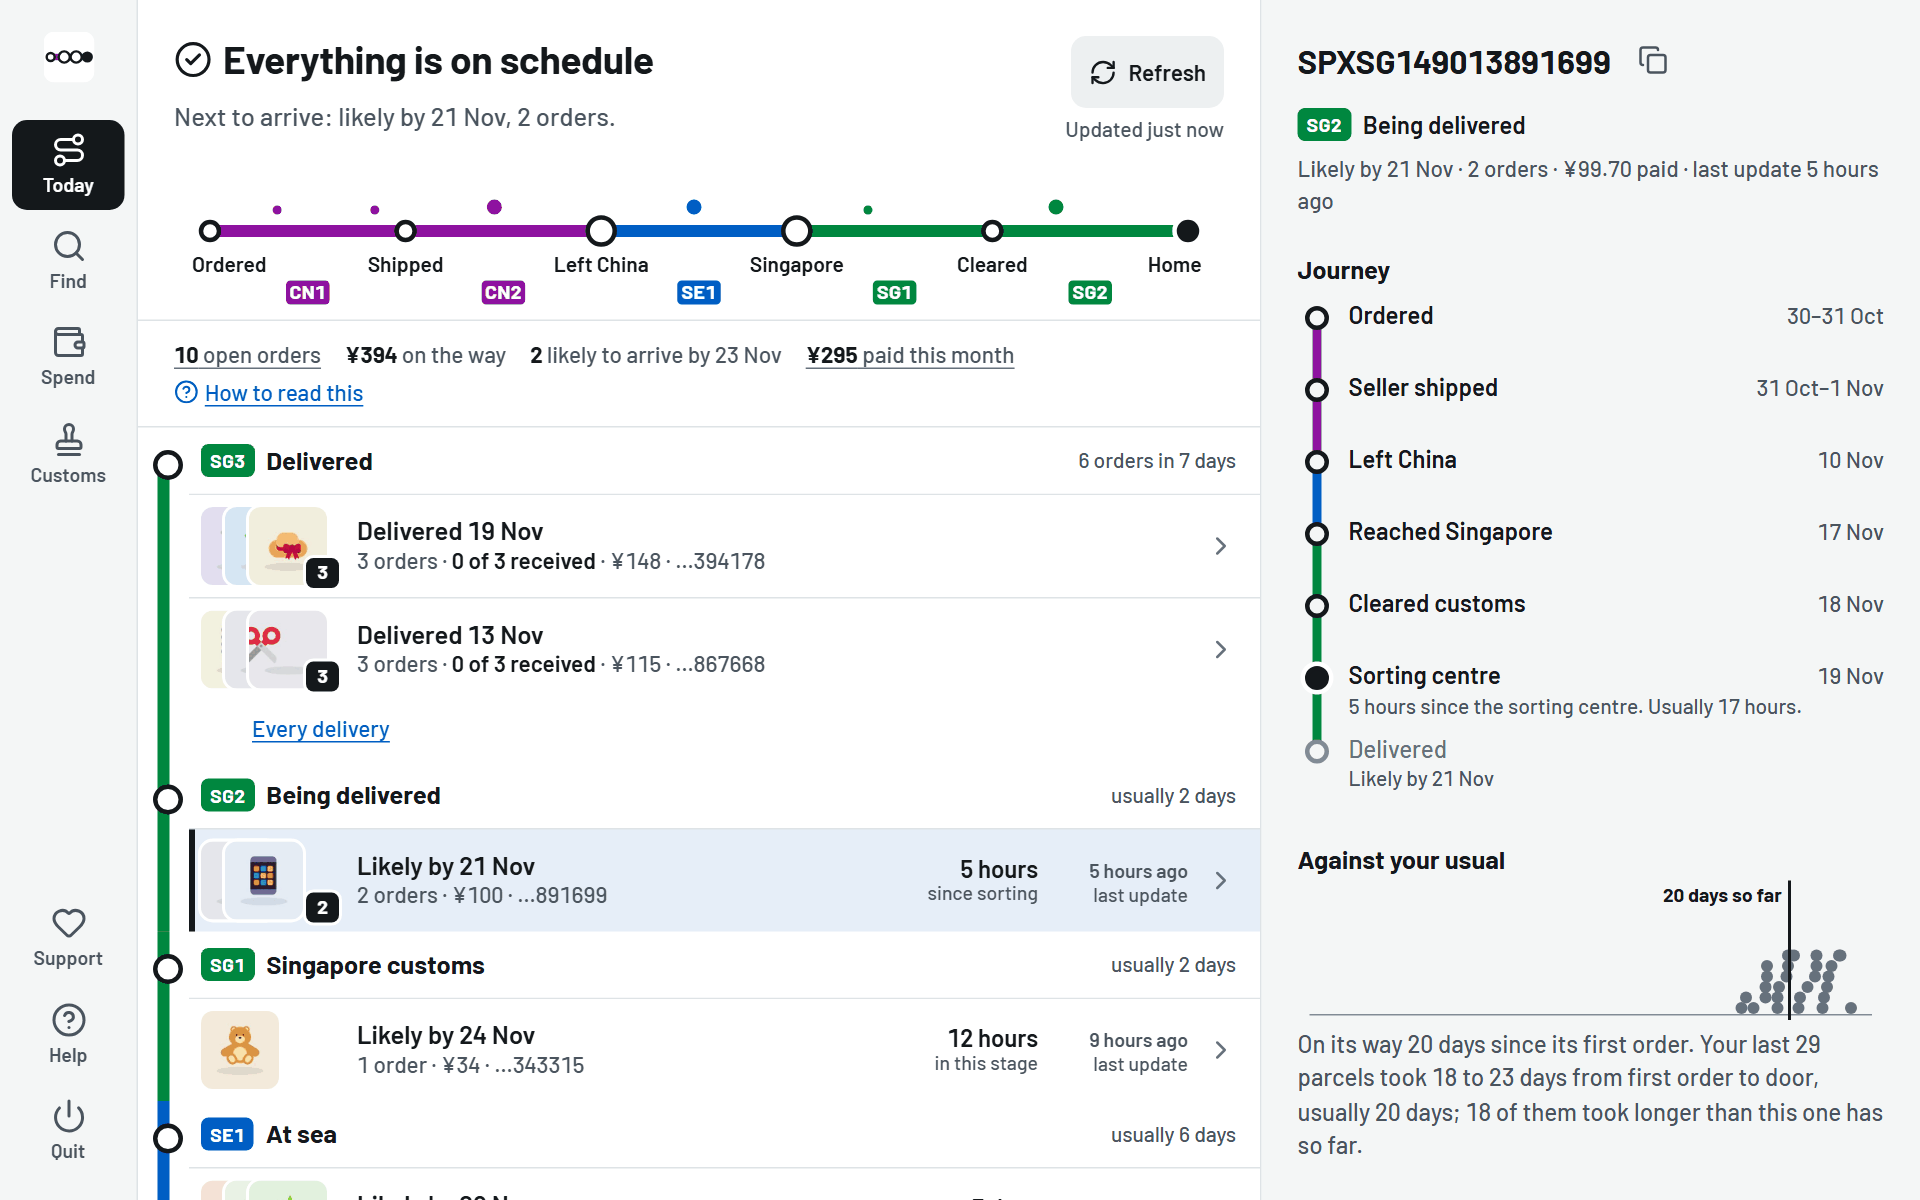
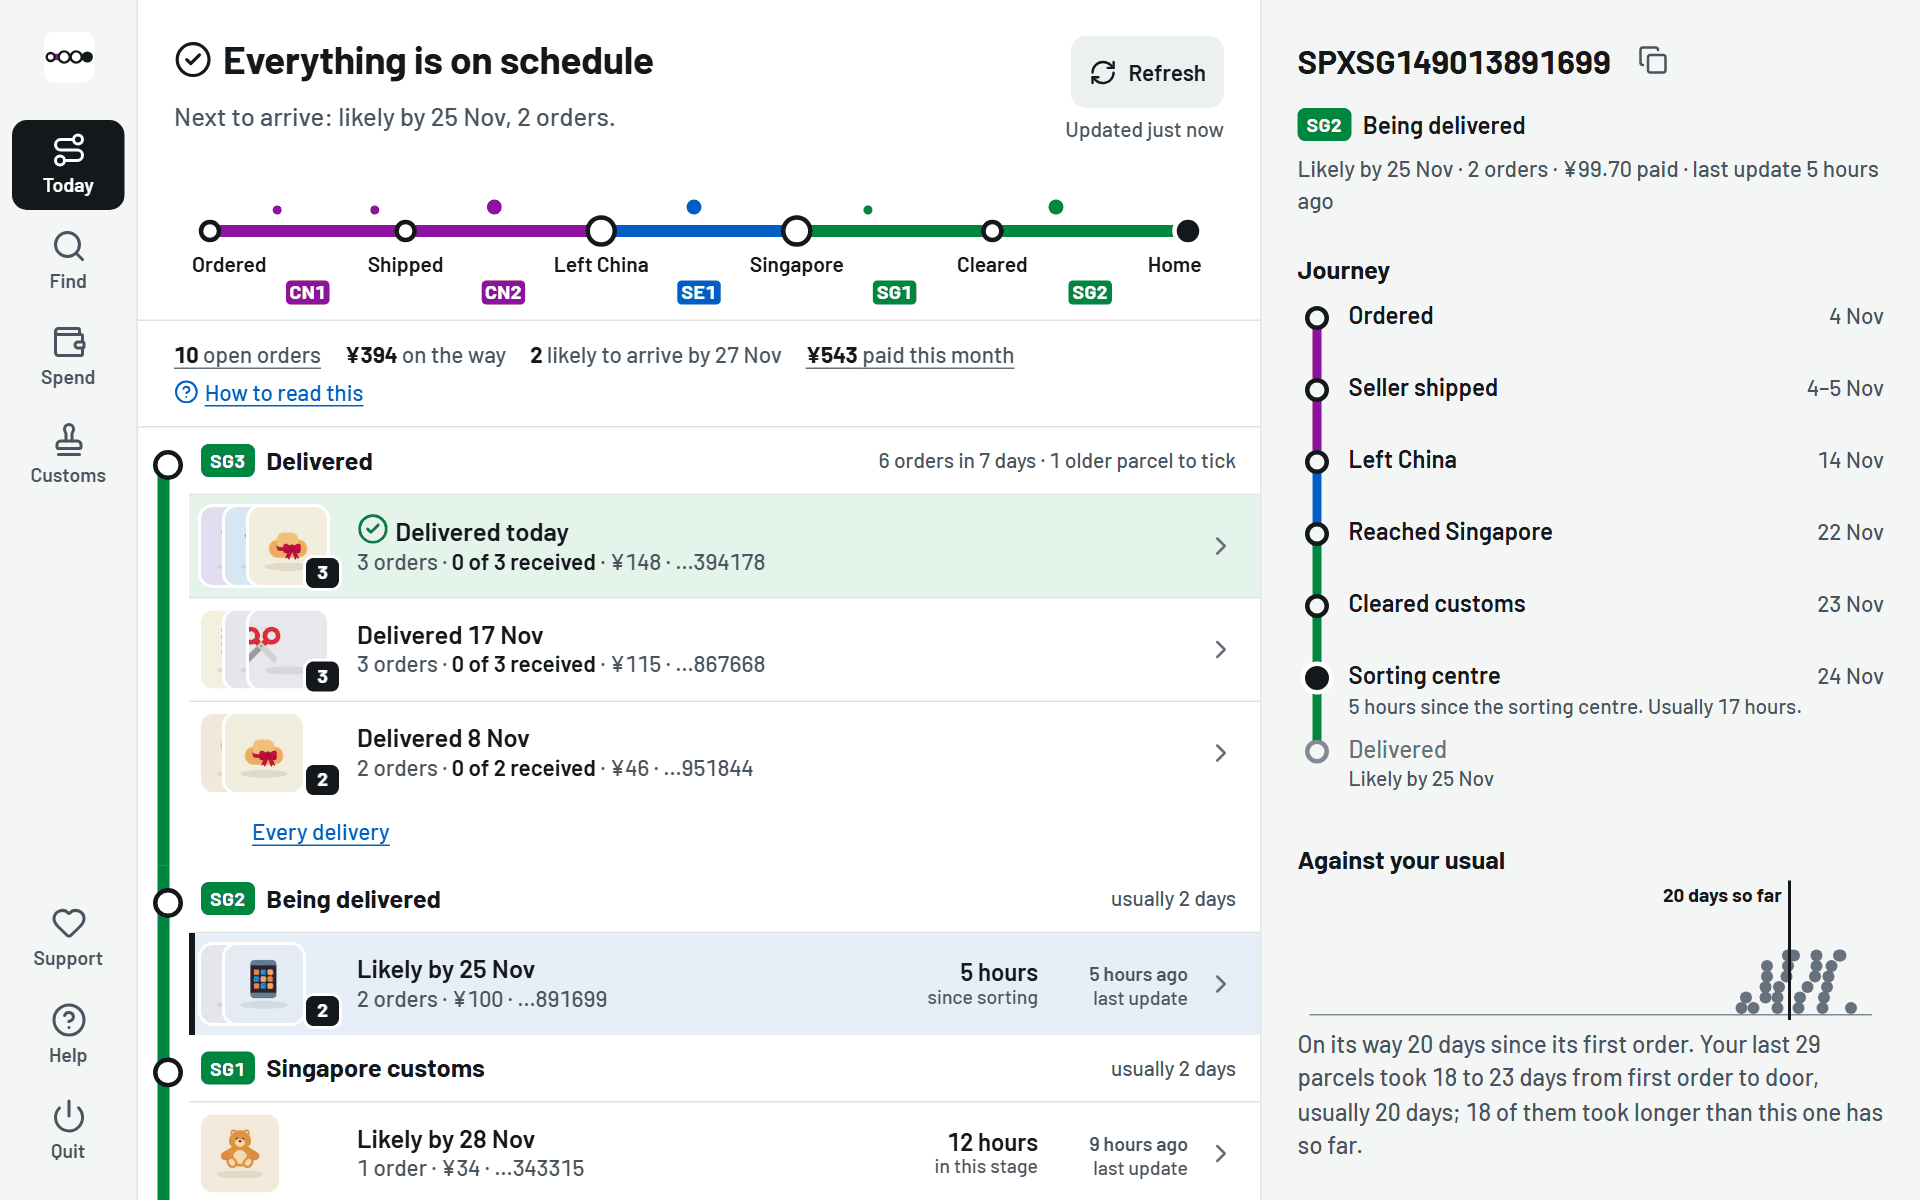
Pictures from 1.0.7, and delivered parcels stay until they're ticked

diff --git a/README.md b/README.md
@@ -16,7 +16,8 @@ likely arrive.
 ![Today: every parcel on its way, with when it will likely arrive](screenshots/today.png)
 
 Open a parcel to see where it has been, the carrier's newest update, and the
-orders inside it to tick off once you've checked them.
+orders inside it to tick off once you've checked them. A delivered parcel
+stays on Today for a week, and after that until every order in it is ticked.
 
 ![A delivered parcel, with the orders inside it](screenshots/delivered.png)
 
